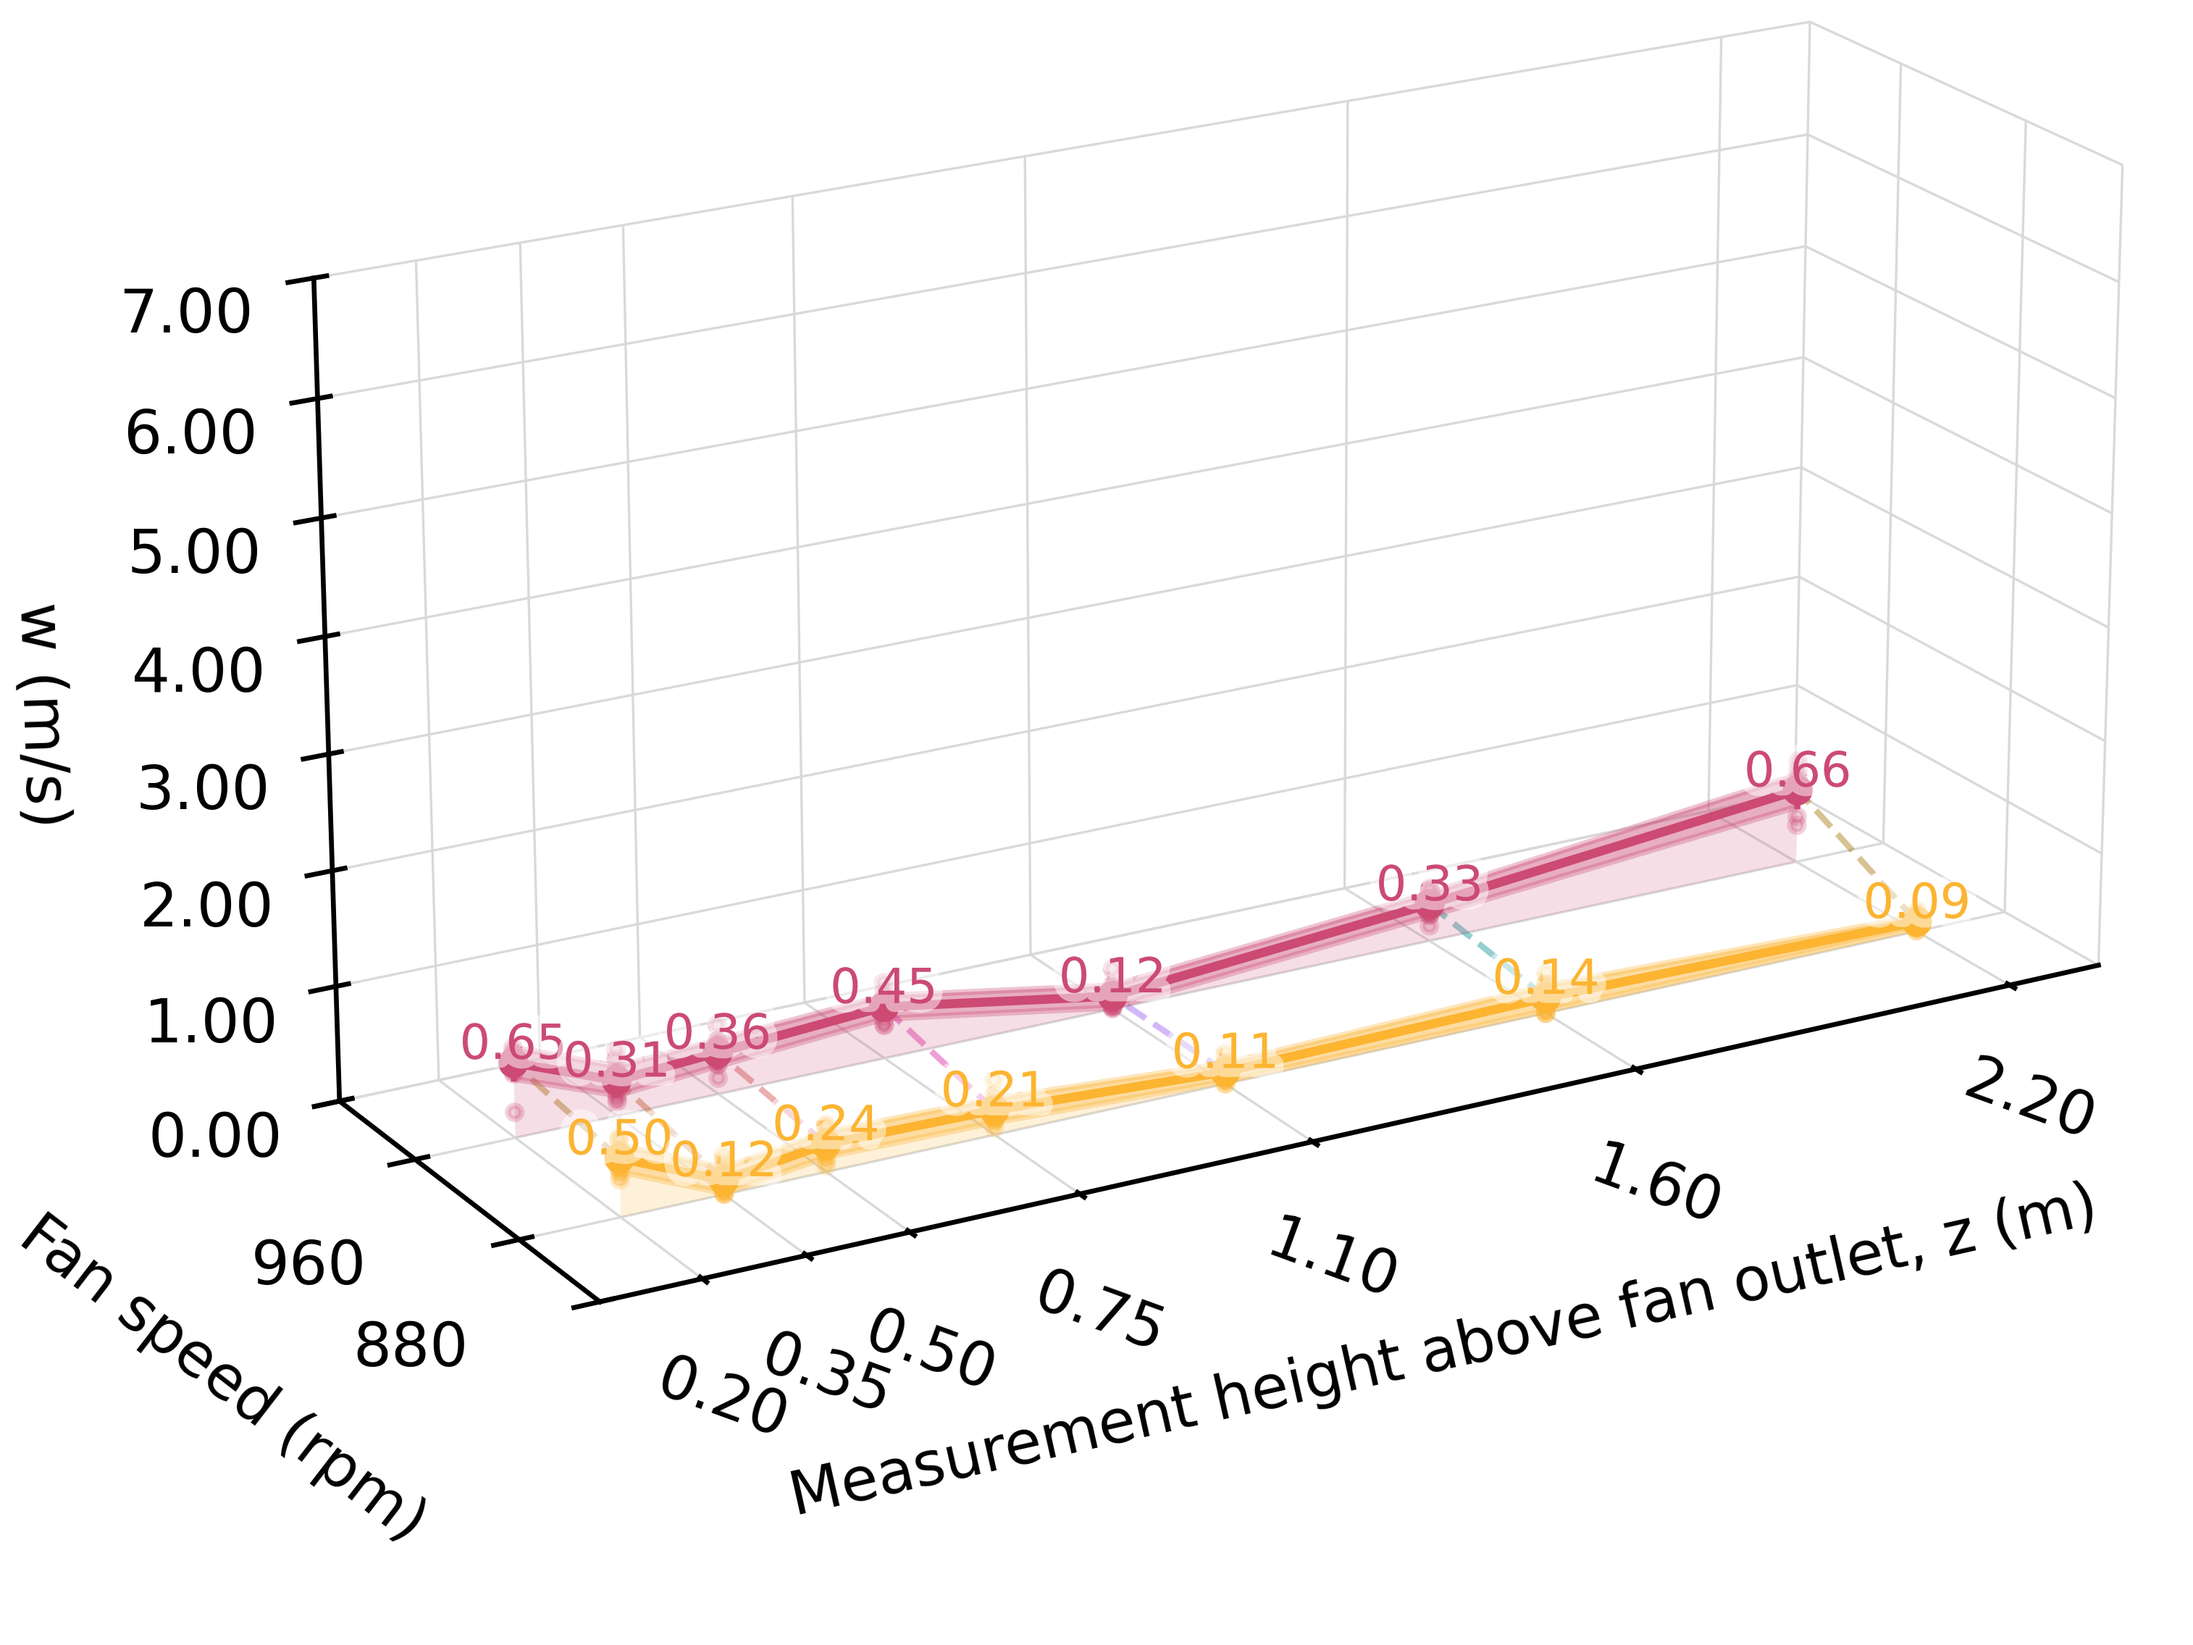
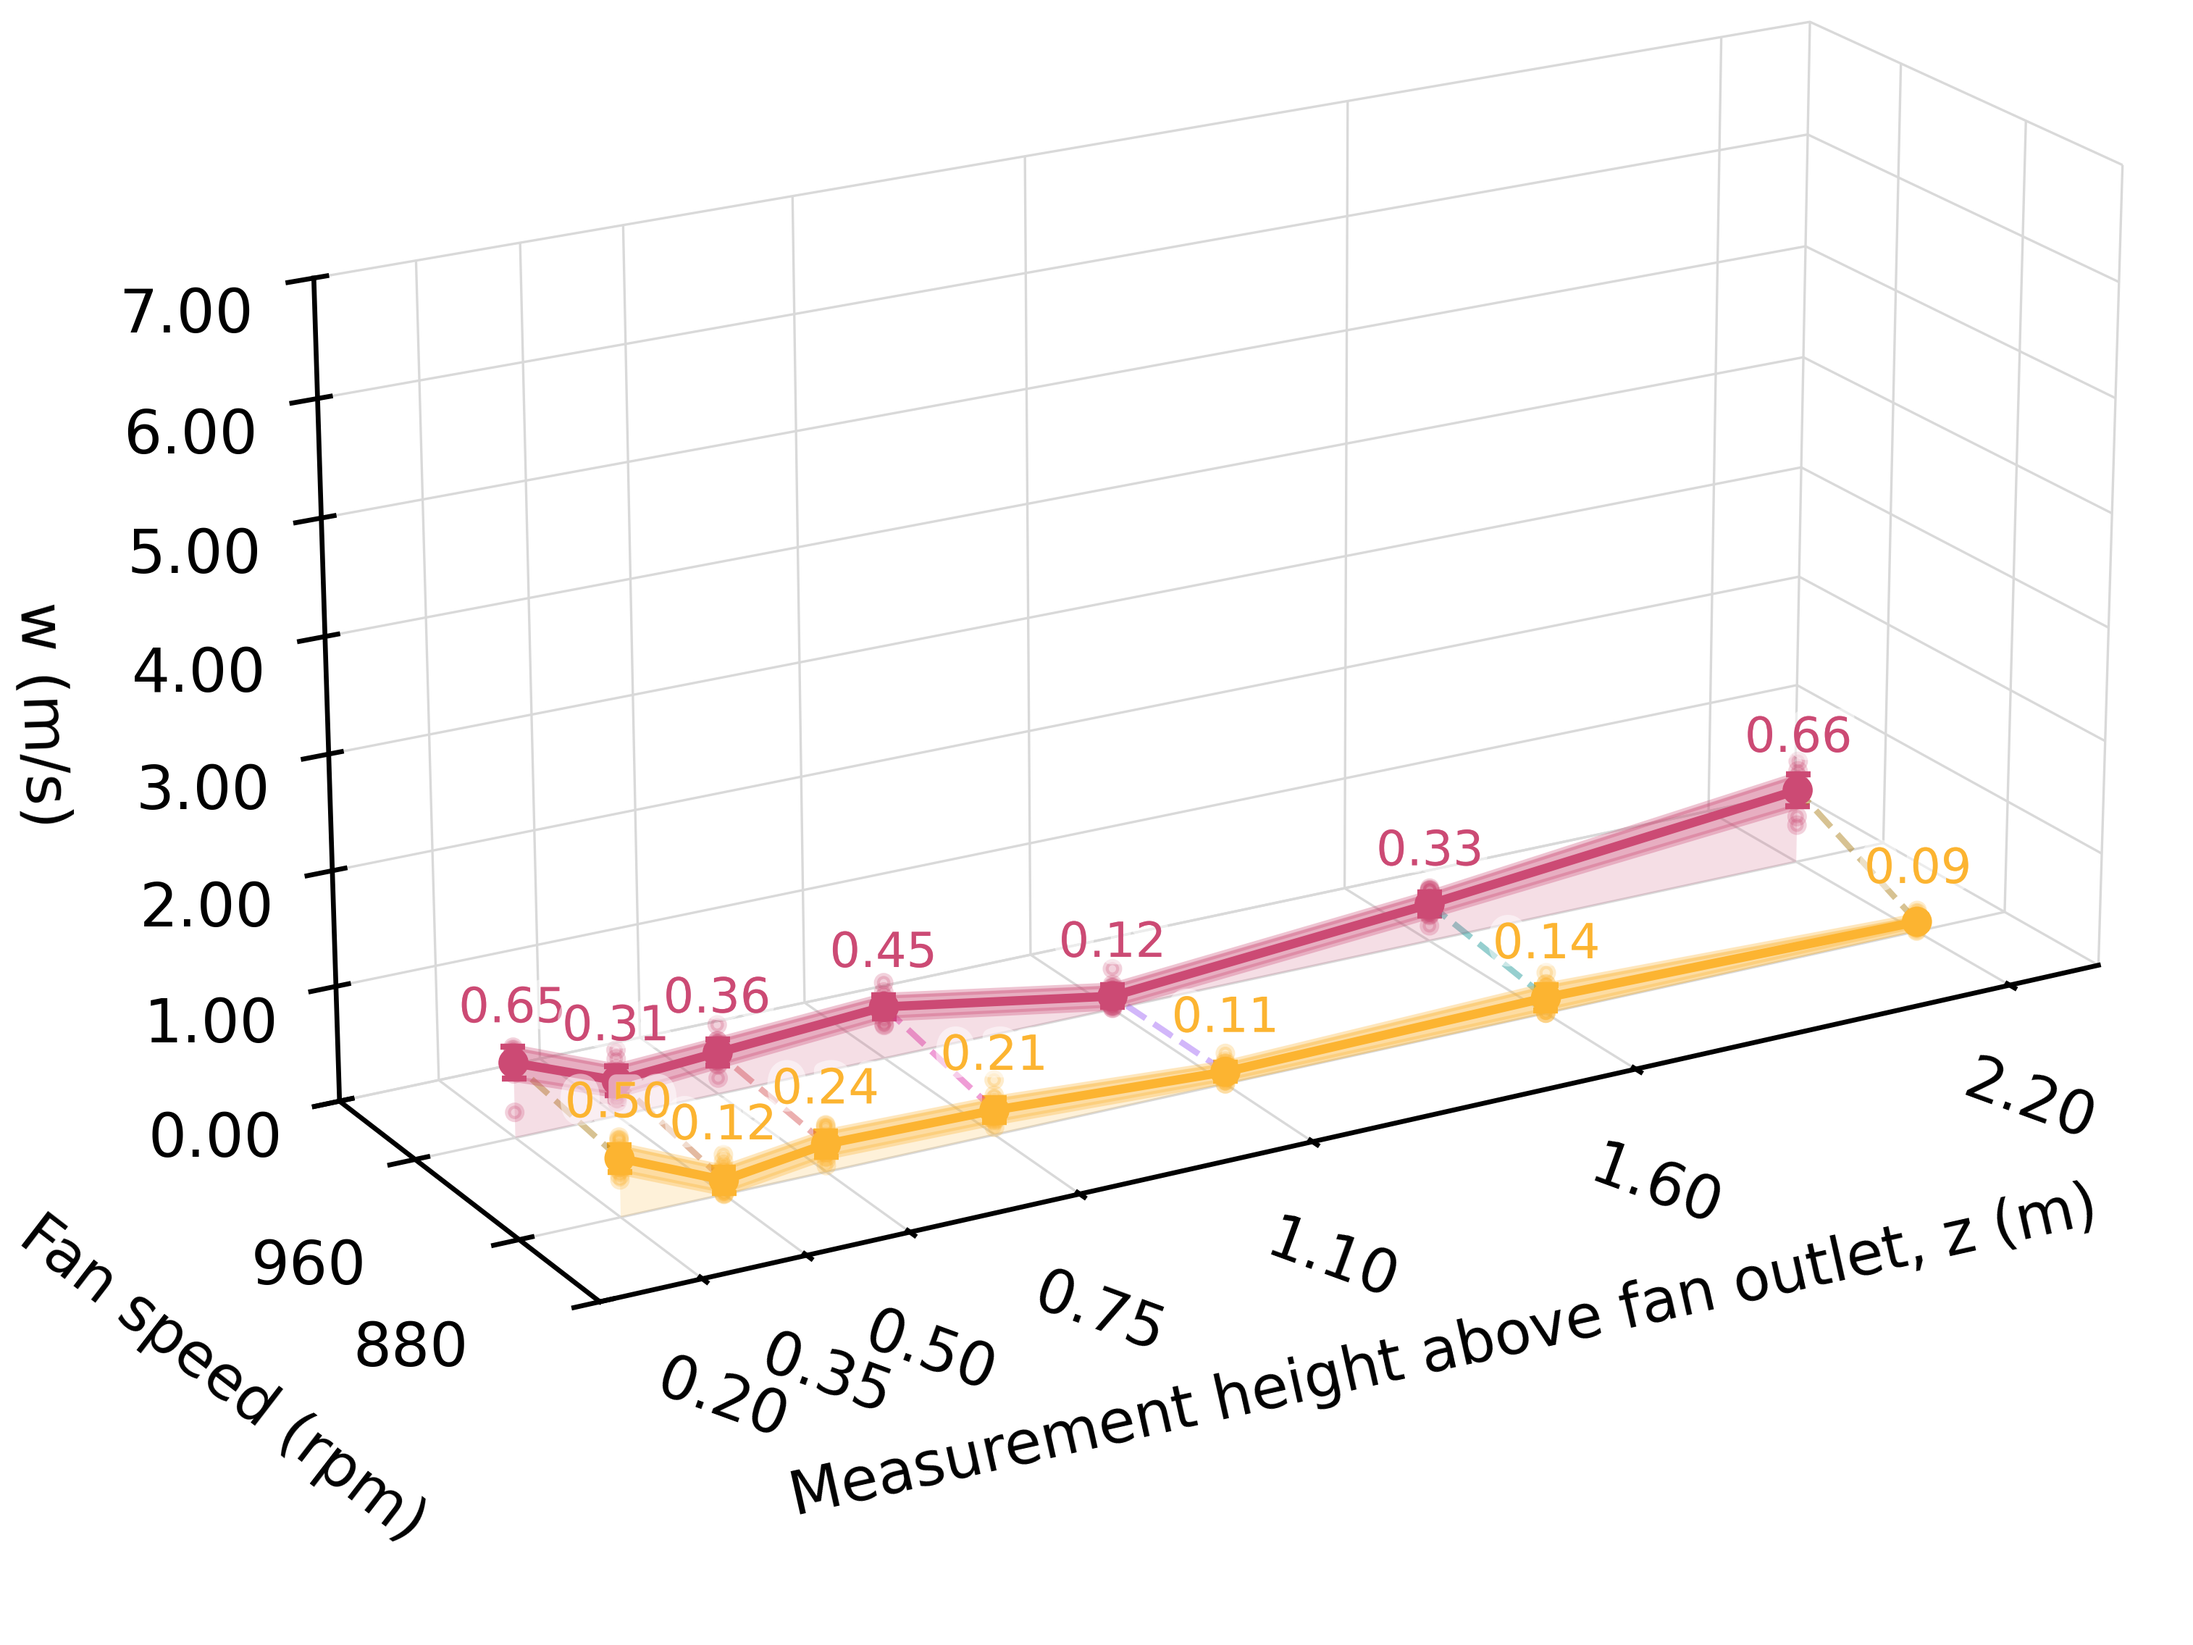
Thermal v1.2
- Python
- Plotting adjustment

diff --git a/B_Thermal/single_fan_ground_effect.py b/B_Thermal/single_fan_ground_effect.py
@@ -177,15 +177,17 @@ def add_mean_std_band(
     # mean line
     ax.plot(x, np.full_like(x, y_const), mean, linewidth=1.5, color=color)
 
-    # whiskers at each height: mean +/- std
-    for xi, mi, si in zip(x, mean, std):
-        ax.plot(
-            [xi, xi],
-            [y_const, y_const],
-            [mi - si, mi + si],
-            linewidth=1,
-            color=color,
-        )
+    # error bars at each height: mean +/- std
+    ax.errorbar(
+        x,
+        np.full_like(x, y_const),
+        mean,
+        zerr=std,
+        fmt="none",
+        ecolor=color,
+        elinewidth=1.0,
+        capsize=2.0,
+    )
 
 
 def plot_point_3d(summary_df: pd.DataFrame, point_id: str, out_path: Path):
@@ -253,8 +255,6 @@ def plot_point_3d(summary_df: pd.DataFrame, point_id: str, out_path: Path):
         )
 
     # Connect points at the same measurement height (dashed, colored by z)
-    z_range = float(d["mean_w"].max() - d["mean_w"].min())
-    z_text_offset = 0.06 * z_range if z_range > 0 else 0.03
     z_meas_vals = sorted(d["z_meas_m"].unique())
     if cmocean is not None:
         z_cmap = cmocean.cm.phase
@@ -273,6 +273,7 @@ def plot_point_3d(summary_df: pd.DataFrame, point_id: str, out_path: Path):
             continue
         y_vals = dd_z["z_outlet_m"].to_numpy(dtype=float)
         z_vals = dd_z["mean_w"].to_numpy(dtype=float)
+        std_vals = dd_z["std_w"].to_numpy(dtype=float)
         x_vals = np.full_like(y_vals, z_meas)
         ax.plot(
             x_vals,
@@ -284,7 +285,9 @@ def plot_point_3d(summary_df: pd.DataFrame, point_id: str, out_path: Path):
             alpha=0.45,
             zorder=6,
         )
-        for xi, yi, zi in zip(x_vals, y_vals, z_vals):
+        for xi, yi, zi, si in zip(x_vals, y_vals, z_vals, std_vals):
+            local_range = float(2.0 * si)
+            z_text_offset = max(0.35, 0.75 * local_range)
             label_color = color_map.get(yi, "black")
             if yi == 0.245:
                 label_zorder = 300
@@ -306,7 +309,7 @@ def plot_point_3d(summary_df: pd.DataFrame, point_id: str, out_path: Path):
                 clip_on=False,
                 path_effects=[
                     pe.withStroke(
-                        linewidth=3,
+                        linewidth=2.5,
                         foreground=(1.0, 1.0, 1.0, 0.5),
                     )
                 ],

diff --git a/B_Thermal/single_fan_mode.py b/B_Thermal/single_fan_mode.py
@@ -176,15 +176,17 @@ def add_mean_std_band(
     # mean line
     ax.plot(x, np.full_like(x, y_const), mean, linewidth=1.5, color=color)
 
-    # whiskers at each height: mean +/- std
-    for xi, mi, si in zip(x, mean, std):
-        ax.plot(
-            [xi, xi],
-            [y_const, y_const],
-            [mi - si, mi + si],
-            linewidth=1,
-            color=color,
-        )
+    # error bars at each height: mean +/- std
+    ax.errorbar(
+        x,
+        np.full_like(x, y_const),
+        mean,
+        zerr=std,
+        fmt="none",
+        ecolor=color,
+        elinewidth=1.0,
+        capsize=2.0,
+    )
 
 
 def plot_point_3d(summary_df: pd.DataFrame, point_id: str, out_path: Path):
@@ -255,8 +257,6 @@ def plot_point_3d(summary_df: pd.DataFrame, point_id: str, out_path: Path):
         )
 
     # Connect points at the same measurement height (dashed, colored by z)
-    z_range = float(d["mean_w"].max() - d["mean_w"].min())
-    z_text_offset = 0.06 * z_range if z_range > 0 else 0.03
     z_meas_vals = sorted(d["z_meas_m"].unique())
     if cmocean is not None:
         z_cmap = cmocean.cm.phase
@@ -275,6 +275,7 @@ def plot_point_3d(summary_df: pd.DataFrame, point_id: str, out_path: Path):
             continue
         y_vals = dd_z["z_outlet_m"].to_numpy(dtype=float)
         z_vals = dd_z["mean_w"].to_numpy(dtype=float)
+        std_vals = dd_z["std_w"].to_numpy(dtype=float)
         x_vals = np.full_like(y_vals, z_meas)
         ax.plot(
             x_vals,
@@ -286,7 +287,9 @@ def plot_point_3d(summary_df: pd.DataFrame, point_id: str, out_path: Path):
             alpha=0.45,
             zorder=6,
         )
-        for xi, yi, zi in zip(x_vals, y_vals, z_vals):
+        for xi, yi, zi, si in zip(x_vals, y_vals, z_vals, std_vals):
+            local_range = float(2.0 * si)
+            z_text_offset = max(0.35, 0.75 * local_range)
             label_color = color_map.get(yi, "black")
             if yi == 880:
                 label_zorder = 300
@@ -306,7 +309,7 @@ def plot_point_3d(summary_df: pd.DataFrame, point_id: str, out_path: Path):
                 clip_on=False,
                 path_effects=[
                     pe.withStroke(
-                        linewidth=3,
+                        linewidth=2.5,
                         foreground=(1.0, 1.0, 1.0, 0.5),
                     )
                 ],

diff --git a/B_Thermal/Four_fan_time_series.py b/B_Thermal/Four_fan_time_series.py
@@ -146,6 +146,8 @@ def plot_point_2d(summary_df: pd.DataFrame, point_id: str, out_path: Path):
     fig.patch.set_facecolor("white")
     ax.set_facecolor("white")
     ax.grid(True, color=(0.0, 0.0, 0.0, 0.1), linewidth=0.1)
+    ax.spines["top"].set_visible(False)
+    ax.spines["right"].set_visible(False)
 
     color = "#16058b"
     ax.plot(x, mean, color=color, linewidth=1.8, marker="o", markersize=3)
@@ -180,9 +182,9 @@ def plot_point_2d(summary_df: pd.DataFrame, point_id: str, out_path: Path):
     ax.plot(x, mean + std, color=color, linewidth=1.0, alpha=0.32)
     ax.plot(x, mean - std, color=color, linewidth=1.0, alpha=0.32)
 
-    y_range = float(np.max(mean + std) - np.min(mean - std))
-    y_text_offset = 0.03 * y_range if y_range > 0 else 0.03
-    for xi, mi in zip(x, mean):
+    for xi, mi, si in zip(x, mean, std):
+        local_range = float(2.0 * si)
+        y_text_offset = max(0.35, 0.75 * local_range)
         ax.text(
             xi,
             mi + y_text_offset,
@@ -195,8 +197,8 @@ def plot_point_2d(summary_df: pd.DataFrame, point_id: str, out_path: Path):
             zorder=20,
             path_effects=[
                 pe.withStroke(
-                    linewidth=3,
-                    foreground=(1.0, 1.0, 1.0, 0.6),
+                    linewidth=2.5,
+                    foreground=(1.0, 1.0, 1.0, 0.5),
                 )
             ],
         )
@@ -217,7 +219,7 @@ def plot_point_2d(summary_df: pd.DataFrame, point_id: str, out_path: Path):
     ax.set_xticks(sorted(d["z_meas_m"].unique()))
     for label in ax.get_xticklabels():
         label.set_rotation(-20)
-    ax.set_ylim(0, 7)
+    ax.set_ylim(0, 7.75)
     ax.yaxis.set_major_formatter(FormatStrFormatter("%.2f"))
 
     fig.tight_layout()

diff --git a/B_Thermal/single_fan_heat_map.py b/B_Thermal/single_fan_heat_map.py
@@ -124,6 +124,8 @@ def plot_heatmap(x, y, W, outpath: Path, mask_zeros: bool = True):
         W_plot,
         shading="auto",
         cmap=cmocean.cm.thermal,
+        vmin=0.0,
+        vmax=7.0,
         edgecolors=(0, 0, 0, 0.3),
         linewidth=CELL_EDGE_LW,
     )
@@ -228,7 +230,7 @@ def main():
     for sh in SHEETS:
         x, y, W = read_slice_from_sheet(XLSX_PATH, sh)
 
-        out_png = OUT_DIR / f"{sh}_heatmap.png"
+        out_png = OUT_DIR / f"{sh}_single_heatmap.png"
 
         plot_heatmap(x, y, W, out_png, mask_zeros=MASK_ZEROS_AS_NODATA)
 

diff --git a/B_Thermal/four_fan_heat_map.py b/B_Thermal/four_fan_heat_map.py
@@ -128,6 +128,8 @@ def plot_heatmap(x, y, W, outpath: Path, mask_zeros: bool = True):
         W_plot,
         shading="auto",
         cmap=cmocean.cm.thermal,
+        vmin=0.0,
+        vmax=7.75,
         edgecolors=(0, 0, 0, 0.3),
         linewidth=CELL_EDGE_LW,
     )
@@ -233,7 +235,7 @@ def main():
     for sh in SHEETS:
         x, y, W = read_slice_from_sheet(XLSX_PATH, sh)
 
-        out_png = OUT_DIR / f"{sh}_heatmap.png"
+        out_png = OUT_DIR / f"{sh}_four_heatmap.png"
 
         plot_heatmap(x, y, W, out_png, mask_zeros=MASK_ZEROS_AS_NODATA)
 
